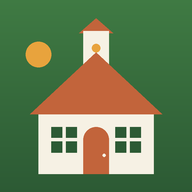
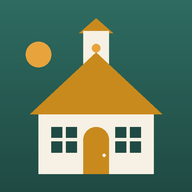
re-theme: Riverbend palette (spruce teal + fog blue + marigold on warm paper)
- steps out of the regional orange+green school genre (shARK, bakery, menu
  sites all converge on it); CSS var names (--garden/--clay) kept for
  stability, values swapped across all four pages, hero gradients,
  manifest + meta theme-color, and regenerated schoolhouse icons
- verified: computed styles in-browser (teal hero, gold chips), icon pixel
  check, all 30 behavior tests pass, zero old-hex leftovers

diff --git a/site/index.html b/site/index.html
@@ -10,7 +10,7 @@
 <link rel="icon" type="image/png" href="favicon.png">
 <link rel="apple-touch-icon" sizes="180x180" href="apple-touch-icon.png">
 <link rel="manifest" href="manifest.webmanifest">
-<meta name="theme-color" content="#2C5A34">
+<meta name="theme-color" content="#1F4A43">
 <meta name="apple-mobile-web-app-capable" content="yes">
 <meta name="apple-mobile-web-app-status-bar-style" content="black-translucent">
 <meta name="apple-mobile-web-app-title" content="Harmony Today">
@@ -18,13 +18,13 @@
 :root{
   --paper:#F6F1E4; --card:#FFFDF7; --card-alt:#EFE9D9;
   --ink:#22301F; --ink-body:#3B4A37; --ink-soft:#5A6B54; --ink-muted:#6B7A63; --ink-faint:#8A9280; --ink-ghost:#A39A83;
-  --garden:#3F7A43; --garden-deep:#2C5A34; --garden-pale:#E7EEDF; --garden-line:#CFDCC4;
-  --clay:#C2643B; --clay-pale:#F1E6DC; --clay-line:#E4BCA6; --clay-ink:#8A4A28;
+  --garden:#2E6B60; --garden-deep:#1F4A43; --garden-pale:#E2EEE9; --garden-line:#C3DAD2;
+  --clay:#C98A1D; --clay-pale:#F4E8CE; --clay-line:#E3C98A; --clay-ink:#8A6510;
   --sun:#E8A33D; --sun-ink:#33260C;
   --oat:#F1E9D6; --oat-line:#E0D3AE; --oat-ink:#6B5520; --oat-ink-soft:#8A7B4E;
-  --sky:#6E9BC2; --sky-pale:#E3EAF2; --sky-ink:#3C5A78;
+  --sky:#7A93A8; --sky-pale:#E6EDF2; --sky-ink:#44586B;
   --iris:#8E7CB0; --line:#DCD3BE; --line-soft:#EDE5D2;
-  --grad-hero:linear-gradient(150deg,#3F7A43,#2C5A34);
+  --grad-hero:linear-gradient(150deg,#2E6B60,#1F4A43);
   --r-card:16px; --r-hero:20px;
 }
 *{box-sizing:border-box;margin:0;padding:0}
@@ -79,7 +79,7 @@ a.send{display:inline-block;background:var(--clay);color:#fff;font-weight:700;fo
 
 /* Next-lunch teaser + pizza-friday callout (mini card below the lunch card) */
 .theme-callout{background:var(--clay);color:#fff;border-radius:var(--r-card);padding:14px 18px;margin-top:12px}
-.theme-callout .kicker{color:#F1E6DC}
+.theme-callout .kicker{color:#F4E8CE}
 .theme-callout .line{font-family:'Baloo 2';font-size:20px;font-weight:700}
 .next-lunch{background:var(--oat);border:1px solid var(--oat-line);color:var(--oat-ink);border-radius:var(--r-card);padding:12px 18px;margin-top:12px}
 .next-lunch .kicker{color:var(--oat-ink-soft)}

diff --git a/site/board.html b/site/board.html
@@ -8,8 +8,8 @@
 :root{
   --paper:#F6F1E4; --card:#FFFDF7; --card-alt:#EFE9D9;
   --ink:#22301F; --ink-body:#3B4A37; --ink-soft:#5A6B54; --ink-muted:#6B7A63;
-  --garden:#3F7A43; --garden-deep:#2C5A34; --garden-pale:#E7EEDF; --garden-line:#CFDCC4;
-  --clay:#C2643B; --clay-pale:#F1E6DC; --clay-line:#E4BCA6; --clay-ink:#8A4A28;
+  --garden:#2E6B60; --garden-deep:#1F4A43; --garden-pale:#E2EEE9; --garden-line:#C3DAD2;
+  --clay:#C98A1D; --clay-pale:#F4E8CE; --clay-line:#E3C98A; --clay-ink:#8A6510;
   --oat:#F1E9D6; --oat-line:#E0D3AE; --oat-ink:#6B5520;
   --line:#DCD3BE; --r-card:16px;
 }
@@ -18,7 +18,7 @@ body{background:var(--paper);color:var(--ink-body);font:16px/1.65 Georgia,'Times
 .wrap{max-width:720px;margin:0 auto}
 a.back{display:inline-block;font-family:system-ui,sans-serif;font-size:13px;color:var(--garden-deep);text-decoration:none;margin-bottom:16px;border:1px solid var(--garden-line);background:var(--garden-pale);padding:6px 12px;border-radius:999px}
 a.back:hover{background:var(--garden-line)}
-header.hero{background:linear-gradient(150deg,#3F7A43,#2C5A34);color:#fff;border-radius:var(--r-card);padding:26px 26px 22px;margin-bottom:18px}
+header.hero{background:linear-gradient(150deg,#2E6B60,#1F4A43);color:#fff;border-radius:var(--r-card);padding:26px 26px 22px;margin-bottom:18px}
 header.hero h1{font-size:26px;font-weight:700;line-height:1.25}
 header.hero .sub{margin-top:8px;font-size:14px;opacity:.85;font-family:system-ui,sans-serif}
 #count{font-family:'IBM Plex Mono',monospace;font-size:15px;background:rgba(255,255,255,.14);display:inline-block;padding:6px 14px;border-radius:999px;margin-top:14px}

diff --git a/site/budget.html b/site/budget.html
@@ -8,8 +8,8 @@
 :root{
   --paper:#F6F1E4; --card:#FFFDF7; --card-alt:#EFE9D9;
   --ink:#22301F; --ink-body:#3B4A37; --ink-soft:#5A6B54; --ink-muted:#6B7A63;
-  --garden:#3F7A43; --garden-deep:#2C5A34; --garden-pale:#E7EEDF; --garden-line:#CFDCC4;
-  --clay:#C2643B; --clay-pale:#F1E6DC; --clay-line:#E4BCA6; --clay-ink:#8A4A28;
+  --garden:#2E6B60; --garden-deep:#1F4A43; --garden-pale:#E2EEE9; --garden-line:#C3DAD2;
+  --clay:#C98A1D; --clay-pale:#F4E8CE; --clay-line:#E3C98A; --clay-ink:#8A6510;
   --oat:#F1E9D6; --oat-line:#E0D3AE; --oat-ink:#6B5520;
   --line:#DCD3BE; --r-card:16px;
 }
@@ -18,7 +18,7 @@ body{background:var(--paper);color:var(--ink-body);font:16px/1.65 Georgia,'Times
 .wrap{max-width:720px;margin:0 auto}
 a.back{display:inline-block;font-family:system-ui,sans-serif;font-size:13px;color:var(--garden-deep);text-decoration:none;margin-bottom:16px;border:1px solid var(--garden-line);background:var(--garden-pale);padding:6px 12px;border-radius:999px}
 a.back:hover{background:var(--garden-line)}
-header.hero{background:linear-gradient(150deg,#3F7A43,#2C5A34);color:#fff;border-radius:var(--r-card);padding:26px 26px 22px;margin-bottom:18px}
+header.hero{background:linear-gradient(150deg,#2E6B60,#1F4A43);color:#fff;border-radius:var(--r-card);padding:26px 26px 22px;margin-bottom:18px}
 header.hero h1{font-size:26px;font-weight:700;line-height:1.25}
 header.hero .sub{margin-top:8px;font-size:14px;opacity:.85;font-family:system-ui,sans-serif}
 .timing{background:var(--clay-pale);border:1px solid var(--clay-line);border-radius:var(--r-card);padding:14px 18px;margin-bottom:18px;font-size:14.5px}

diff --git a/site/install.html b/site/install.html
@@ -7,15 +7,15 @@
 <style>
 :root{
   --paper:#F6F1E4; --card:#FFFDF7; --ink:#22301F; --ink-body:#3B4A37; --ink-muted:#6B7A63;
-  --garden:#3F7A43; --garden-deep:#2C5A34; --garden-pale:#E7EEDF; --garden-line:#CFDCC4;
-  --clay:#C2643B; --clay-pale:#F1E6DC; --clay-line:#E4BCA6; --clay-ink:#8A4A28;
+  --garden:#2E6B60; --garden-deep:#1F4A43; --garden-pale:#E2EEE9; --garden-line:#C3DAD2;
+  --clay:#C98A1D; --clay-pale:#F4E8CE; --clay-line:#E3C98A; --clay-ink:#8A6510;
   --sun:#E8A33D; --line:#DCD3BE; --r-card:16px;
 }
 *{box-sizing:border-box;margin:0;padding:0}
 body{background:var(--paper);color:var(--ink-body);font-family:Karla,system-ui,sans-serif;font-size:16px;line-height:1.6;padding:24px 16px 60px}
 .wrap{max-width:640px;margin:0 auto}
 a.back{display:inline-block;font-size:13px;color:var(--garden-deep);text-decoration:none;margin-bottom:16px;border:1px solid var(--garden-line);background:var(--garden-pale);padding:6px 12px;border-radius:999px}
-header.hero{background:linear-gradient(150deg,#3F7A43,#2C5A34);color:#fff;border-radius:var(--r-card);padding:26px;margin-bottom:18px}
+header.hero{background:linear-gradient(150deg,#2E6B60,#1F4A43);color:#fff;border-radius:var(--r-card);padding:26px;margin-bottom:18px}
 header.hero h1{font-family:'Baloo 2',system-ui,sans-serif;font-size:28px;line-height:1.2}
 header.hero p{margin-top:8px;font-size:15px;opacity:.88}
 .big-icon{width:72px;height:72px;border-radius:16px;margin-bottom:12px}
